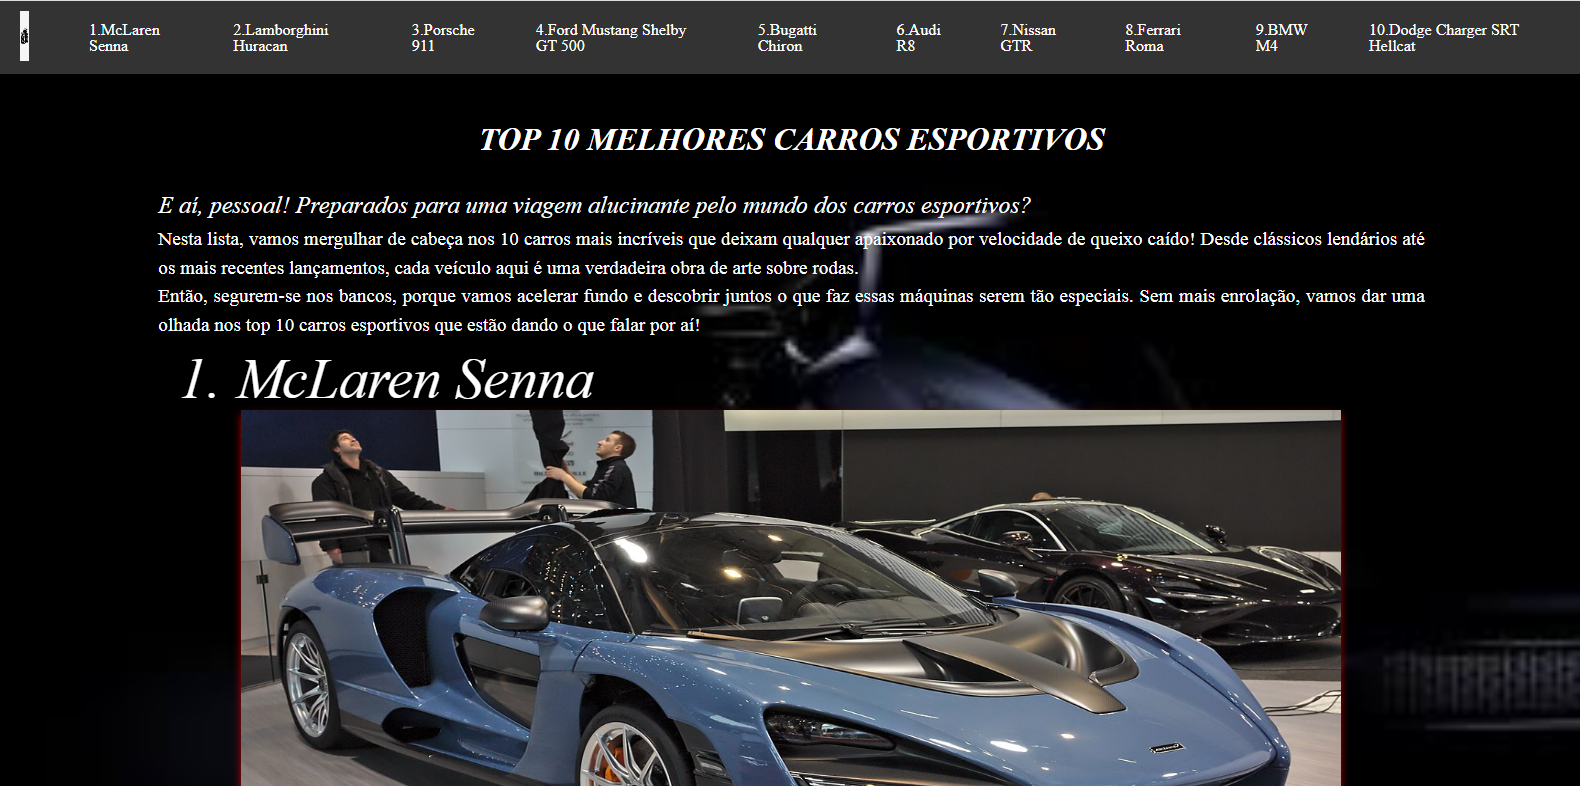
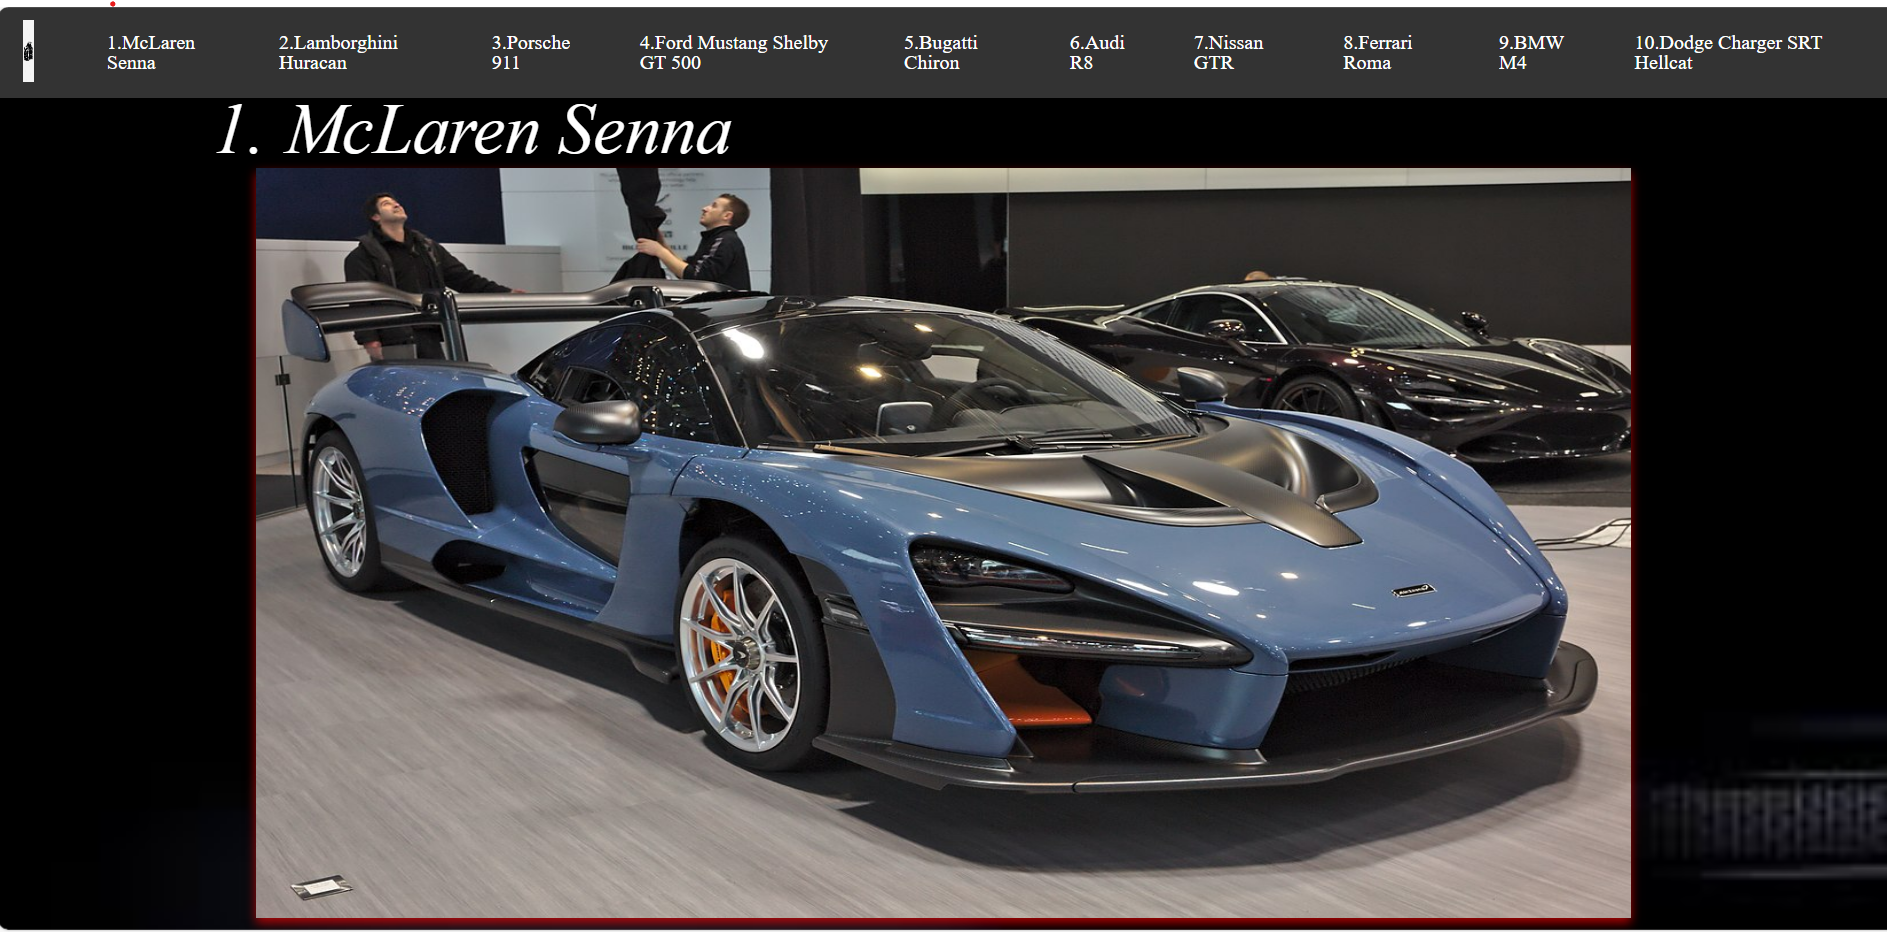
Add files via upload

diff --git a/index.html b/index.html
@@ -27,31 +27,32 @@
     </style>
     <header>
       <!-- Aqui vai o menu de navegação -->
-      <nav class="navbar navbar-expand-lg bg-body-tertiary">
-        <div class="container-fluid">
-          <a class="navbar-brand" href="#">Meu Currículo</a>
-          <button class="navbar-toggler" type="button" data-bs-toggle="collapse" data-bs-target="#navbarNav" aria-controls="navbarNav" aria-expanded="false" aria-label="Toggle navigation">
-            <span class="navbar-toggler-icon"></span>
-          </button>
-          <div class="collapse navbar-collapse" id="navbarNav">
-            <ul class="navbar-nav">
-              <li class="nav-item">
-                <a class="nav-link active" aria-current="page" href="#sobremim">Sobre mim</a>
-              </li>
-              <li class="nav-item">
-                <a class="nav-link" href="#projetos">Projetos</a>
-              </li>
-              <li class="nav-item">
-                <a class="nav-link" href="#">Pricing</a>
-              </li>
-              <li class="nav-item">
-                <a class="nav-link disabled" aria-disabled="true">Disabled</a>
-              </li>
-            </ul>
-          </div>
+      <nav class="navbar navbar-expand-lg navbar-dark bg-dark fixed-top">
+        <a class="navbar-brand" href="#">Meu Currículo</a>
+        <button class="navbar-toggler" type="button" data-toggle="collapse" data-target="#navbarNav" aria-controls="navbarNav" aria-expanded="false" aria-label="Toggle navigation">
+          <span class="navbar-toggler-icon"></span>
+        </button>
+        <div class="collapse navbar-collapse" id="navbarNav">
+          <ul class="navbar-nav ml-auto">
+            <li class="nav-item">
+              <a class="nav-link" href="#sobre mim">Sobre Mim</a>
+            </li>
+            <li class="nav-item">
+              <a class="nav-link" href="#projetos">Projetos</a>
+            </li>
+            <li class="nav-item">
+              <a class="nav-link" href="#Experiências">Experiências</a>
+            </li>
+            <li class="nav-item">
+              <a class="nav-link" href="#cursos">Cursos</a>
+            </li>
+            <li class="nav-item">
+              <a class="nav-link" href="#Contato">Contato</a>
+            </li>
+          </ul>
         </div>
       </nav>
-
+<br>
 
     </header>
   </div>
@@ -76,7 +77,7 @@
               
               <div class="card" style="width: 40rem; height: 500px; ">
                 <div class="card-body">
-                  <h5 class="card-title">Introduções</h5>
+                  <h5 class="card-title">Introdução</h5>
                   
                   <p class="card-text">
                     <p><h5>Nome:</h5> Murilo Gonçalves da Silva<br>
@@ -111,58 +112,46 @@
       <main>
         <section>
           <div class="row"> <!-- LINHAS -->
-            <div class="col"><div class="card" style="width: 18rem;">
-              <img src="img/Capturar.PNG" class="card-img-top" alt="...">
+            <div class="col"><div class="card" style="width: 25rem;">
+              <img src="img/Capturar.PNG" class="card-img-top" alt="Imagem do Meu Primeiro Site">
               <div class="card-body">
                 <h5 class="card-title">Meu Primeiro Site</h5>
-                <p class="card-text">Some quick example text to build on the card title and make up the bulk of the card's content.</p>
-                <a href="https://murilo1006.github.io/MeuPrimeiroSiteNovo/" class="btn btn-primary">Go somewhere</a>
+                <p class="card-text">Esse foi Meu Primeiro Site, baseado nos melhores 10 carros de luxos para se ter, fiz esse site para proporcionar melhores informações e especificando o que cada carro tem de melhor e de diferente.</p>
+                <a href="https://murilo1006.github.io/MeuPrimeiroSiteNovo/" class="btn btn-primary">Clique aqui para ver</a>
               </div>
             </div></div> <!--colunas-->
 
             <div class="col">
-              <div class="card" style="width: 18rem;">
-                <img src=".../" class="card-img-top" alt="...">
+              <div class="card" style="width: 20rem;">
+                <img src="img/CapturaPosition.png" class="card-img-top" alt="Imagem da Prova Position">
                 <div class="card-body">
-                  <h5 class="card-title">Meu Primeiro Site</h5>
-                  <p class="card-text">Some quick example text to build on the card title and make up the bulk of the card's content.</p>
-                  <a href="#" class="btn btn-primary">Go somewhere</a>
+                  <h5 class="card-title">Prova Position</h5>
+                  <p class="card-text">Fiz essa Prova no 2º Bimestre de 2024, sobre Position, que basicamente tinha 5 quadradinhos e 1 maior, o objetivo era colocar todos os 5 dentro do maior nas posições corretas e numerar/nomear cada quadrado.</p>
+                  <a href="https://murilo1006.github.io/Prova_Position/" class="btn btn-primary">Clique aqui para ver</a>
                 </div>
               </div>
             </div>
 
             <div class="col">
-              <div class="card" style="width: 18rem;">
+              <div class="card" style="width: 25rem;">
                 <img src="..." class="card-img-top" alt="...">
                 <div class="card-body">
-                  <h5 class="card-title">Card title</h5>
-                  <p class="card-text">Some quick example text to build on the card title and make up the bulk of the card's content.</p>
-                  <a href="#" class="btn btn-primary">Go somewhere</a>
+                  <h5 class="card-title">Clonagem do Google</h5>
+                  <p class="card-text">Esse Projeto é baseado em um trabalho para fazer dentro do html e css a clonagem do Google, com base em videos aulas e explicação do professor, o site ficou muito semelhante ao Google.</p>
+                  <a href="#" class="btn btn-primary">Clique aqui para ver</a>
                 </div>
               </div>
             </div>
-
-            <div class="col">
-              <div class="card" style="width: 18rem;">
-                <img src="..." class="card-img-top" alt="...">
-                <div class="card-body">
-                  <h5 class="card-title">Card title</h5>
-                  <p class="card-text">Some quick example text to build on the card title and make up the bulk of the card's content.</p>
-                  <a href="#" class="btn btn-primary">Go somewhere</a>
-                </div>
-              </div>
-            </div>
-          </div>
         </section>
       </main>
      </div>
       
     </section>
 
-
+<br>
 
     <section>
-      <div>      <h2>Habilidades</h2>
+      <div>      <h2>Experiências</h2>
       </div>
       <div class="container quadro">
         <div class="row align-items-center">
@@ -172,7 +161,7 @@
           </div>
           <div class="col-3">
             <figure>
-              <img src="img/html.jpeg" alt="Descrição da imagem" class="linguagens img-fluid">
+              <img src="..." alt="Descrição da imagem" class="linguagens img-fluid">
             </figure>
           </div>
         </div>
@@ -186,7 +175,7 @@
           </div>
           <div class="col-3">
             <figure>
-              <img src="img/css2.png" alt="Descrição da imagem" class="linguagens img-fluid">
+              <img src="..." alt="Descrição da imagem" class="linguagens img-fluid">
             </figure>
           </div>
         </div>
@@ -195,45 +184,41 @@
       <div class="container quadro">
         <div class="row align-items-center">
           <div class="col-9">
-            <h3>JavaScript</h3>
+            <h3>Python</h3>
             <p></p>
           </div>
           <div class="col-3">
             <figure>
-              <img src="img/js.png" alt="Descrição da imagem" class="linguagens img-fluid">
+              <img src="..." alt="Descrição da imagem" class="linguagens img-fluid">
             </figure>
           </div>
         </div>
       </div>
     </section>
+
+    <br>
+
      <section>
       <div class = "row"> 
         <div class="col">
           <div class="card" style="width: 18rem;">
             <img src="..." class="card-img-top" alt="...">
             <div class="card-body">
-              <h5 class="card-title">Card title</h5>
-              <p class="card-text">Some quick example text to build on the card title and make up the bulk of the card's content.</p>
-              <a href="#" class="btn btn-primary">Go somewhere</a>
+              <h5 class="card-title">Cursos</h5>
+              <p class="card-text">.</p>
+              <a href="#" class="btn btn-primary">Clique aqui para ver</a>
             </div>
           </div>
         </div>
       </div>
      </section>
 
+<br>
+
      <!-- COLUNAS E LINHAS -->
      <div class="container">
       <main>
         <section>
-          <div class="row"> <!-- LINHAS -->
-            <div class="col">1111</div> <!--colunas-->
-
-            <div class="col">2222</div>
-
-            <div class="col">3333</div>
-
-            <div class="col">4444</div>
-          </div>
         </section>
       </main>
      </div>
@@ -242,6 +227,14 @@
   <div class="container-fluid">
     <footer>
       <!-- Aqui vai o rodapé -->
+       <h1>Contato</h1>
+      <p><h5>E-mail:</h5> goncalves.murilosilva@gmail.com<br>
+        <h5>E-mail Institucional:</h5>murilo.silva420@etec.sp.gov.br<br>
+        
+        <h5>Contato: </h5>(11)972555927<br>
+        
+        <h5>Endereço:</h5> Estrada Ribeirão Pires, Via Anchieta, Jardim Caçula.
+        São Paulo, SP, Brasil.<br></p>
     </footer>
   </div>
 

diff --git a/img/Exercicio - POSITION_files/estilo.css b/img/Exercicio - POSITION_files/estilo.css
@@ -1,0 +1,64 @@
+.box{
+    border: 5px solid black;
+    margin: 20px auto;
+    width: 500px;
+    height: 500px;
+    position: relative;
+}
+
+h1{
+    text-align: center;
+}
+
+div{
+    justify-content: center;
+}
+
+.item1,.item2,.item3,.item4,.item5 {
+    width: 100px;
+    height: 100px;
+    justify-content: center;
+    display: flex;
+    align-items: center;
+    
+}
+
+.item1{
+    border: 2px solid rgb(248, 252, 10);
+    position: relative;
+    top: 200px;
+    left: 10px;
+    text-align: center;
+}
+
+.item2{
+   border: 2px solid rgb(168, 9, 241);
+   position: relative;
+   bottom: 95px;
+   left: 196px;
+  
+}
+
+.item3{
+    border: 2px solid #07d2ec;
+    position: relative;
+    top: 179px;
+    left: 196px;
+
+    
+}
+
+.item4{
+    border: 2px solid rgb(14, 17, 236);
+    position: absolute;
+    right: 2%;
+    bottom: 39%;
+  
+}
+
+.item5{
+    border: 2px solid rgb(231, 17, 17);
+    position: absolute;
+    right: 40%;
+    top: 40%;
+}

diff --git a/img/Exercicio - POSITION.html b/img/Exercicio - POSITION.html
@@ -1,0 +1,21 @@
+<!DOCTYPE html>
+<!-- saved from url=(0044)https://murilo1006.github.io/Prova_Position/ -->
+<html lang="pt-br"><head><meta http-equiv="Content-Type" content="text/html; charset=UTF-8">
+    
+    <meta name="viewport" content="width=device-width, initial-scale=1.0">
+    <title> Exercicio - POSITION</title>
+    <link rel="stylesheet" href="./Exercicio - POSITION_files/estilo.css">
+</head>
+<body>
+    <h1>EXERCICIO SOBRE POSITION</h1>
+    <main>
+        <div class="box">
+            <div class="item1">1</div>
+            <div class="item2">2</div>
+            <div class="item3">3</div>
+            <div class="item4">4</div>
+            <div class="item5">ETEC MCM</div>
+        </div>    
+    </main>
+
+    </body></html>

diff --git a/css/estilo.css b/css/estilo.css
@@ -7,8 +7,12 @@
 }
 
 footer{
-    background-color: rgb(249, 241, 11);
-    height: 100px;
+    background-color: rgb(255, 255, 255);
+    height: 300px;
+    border-radius: 10px;
+    background-size: cover;
+    background-position: center;
+    /* text-align: center; */
 }
   
   .quadro {
